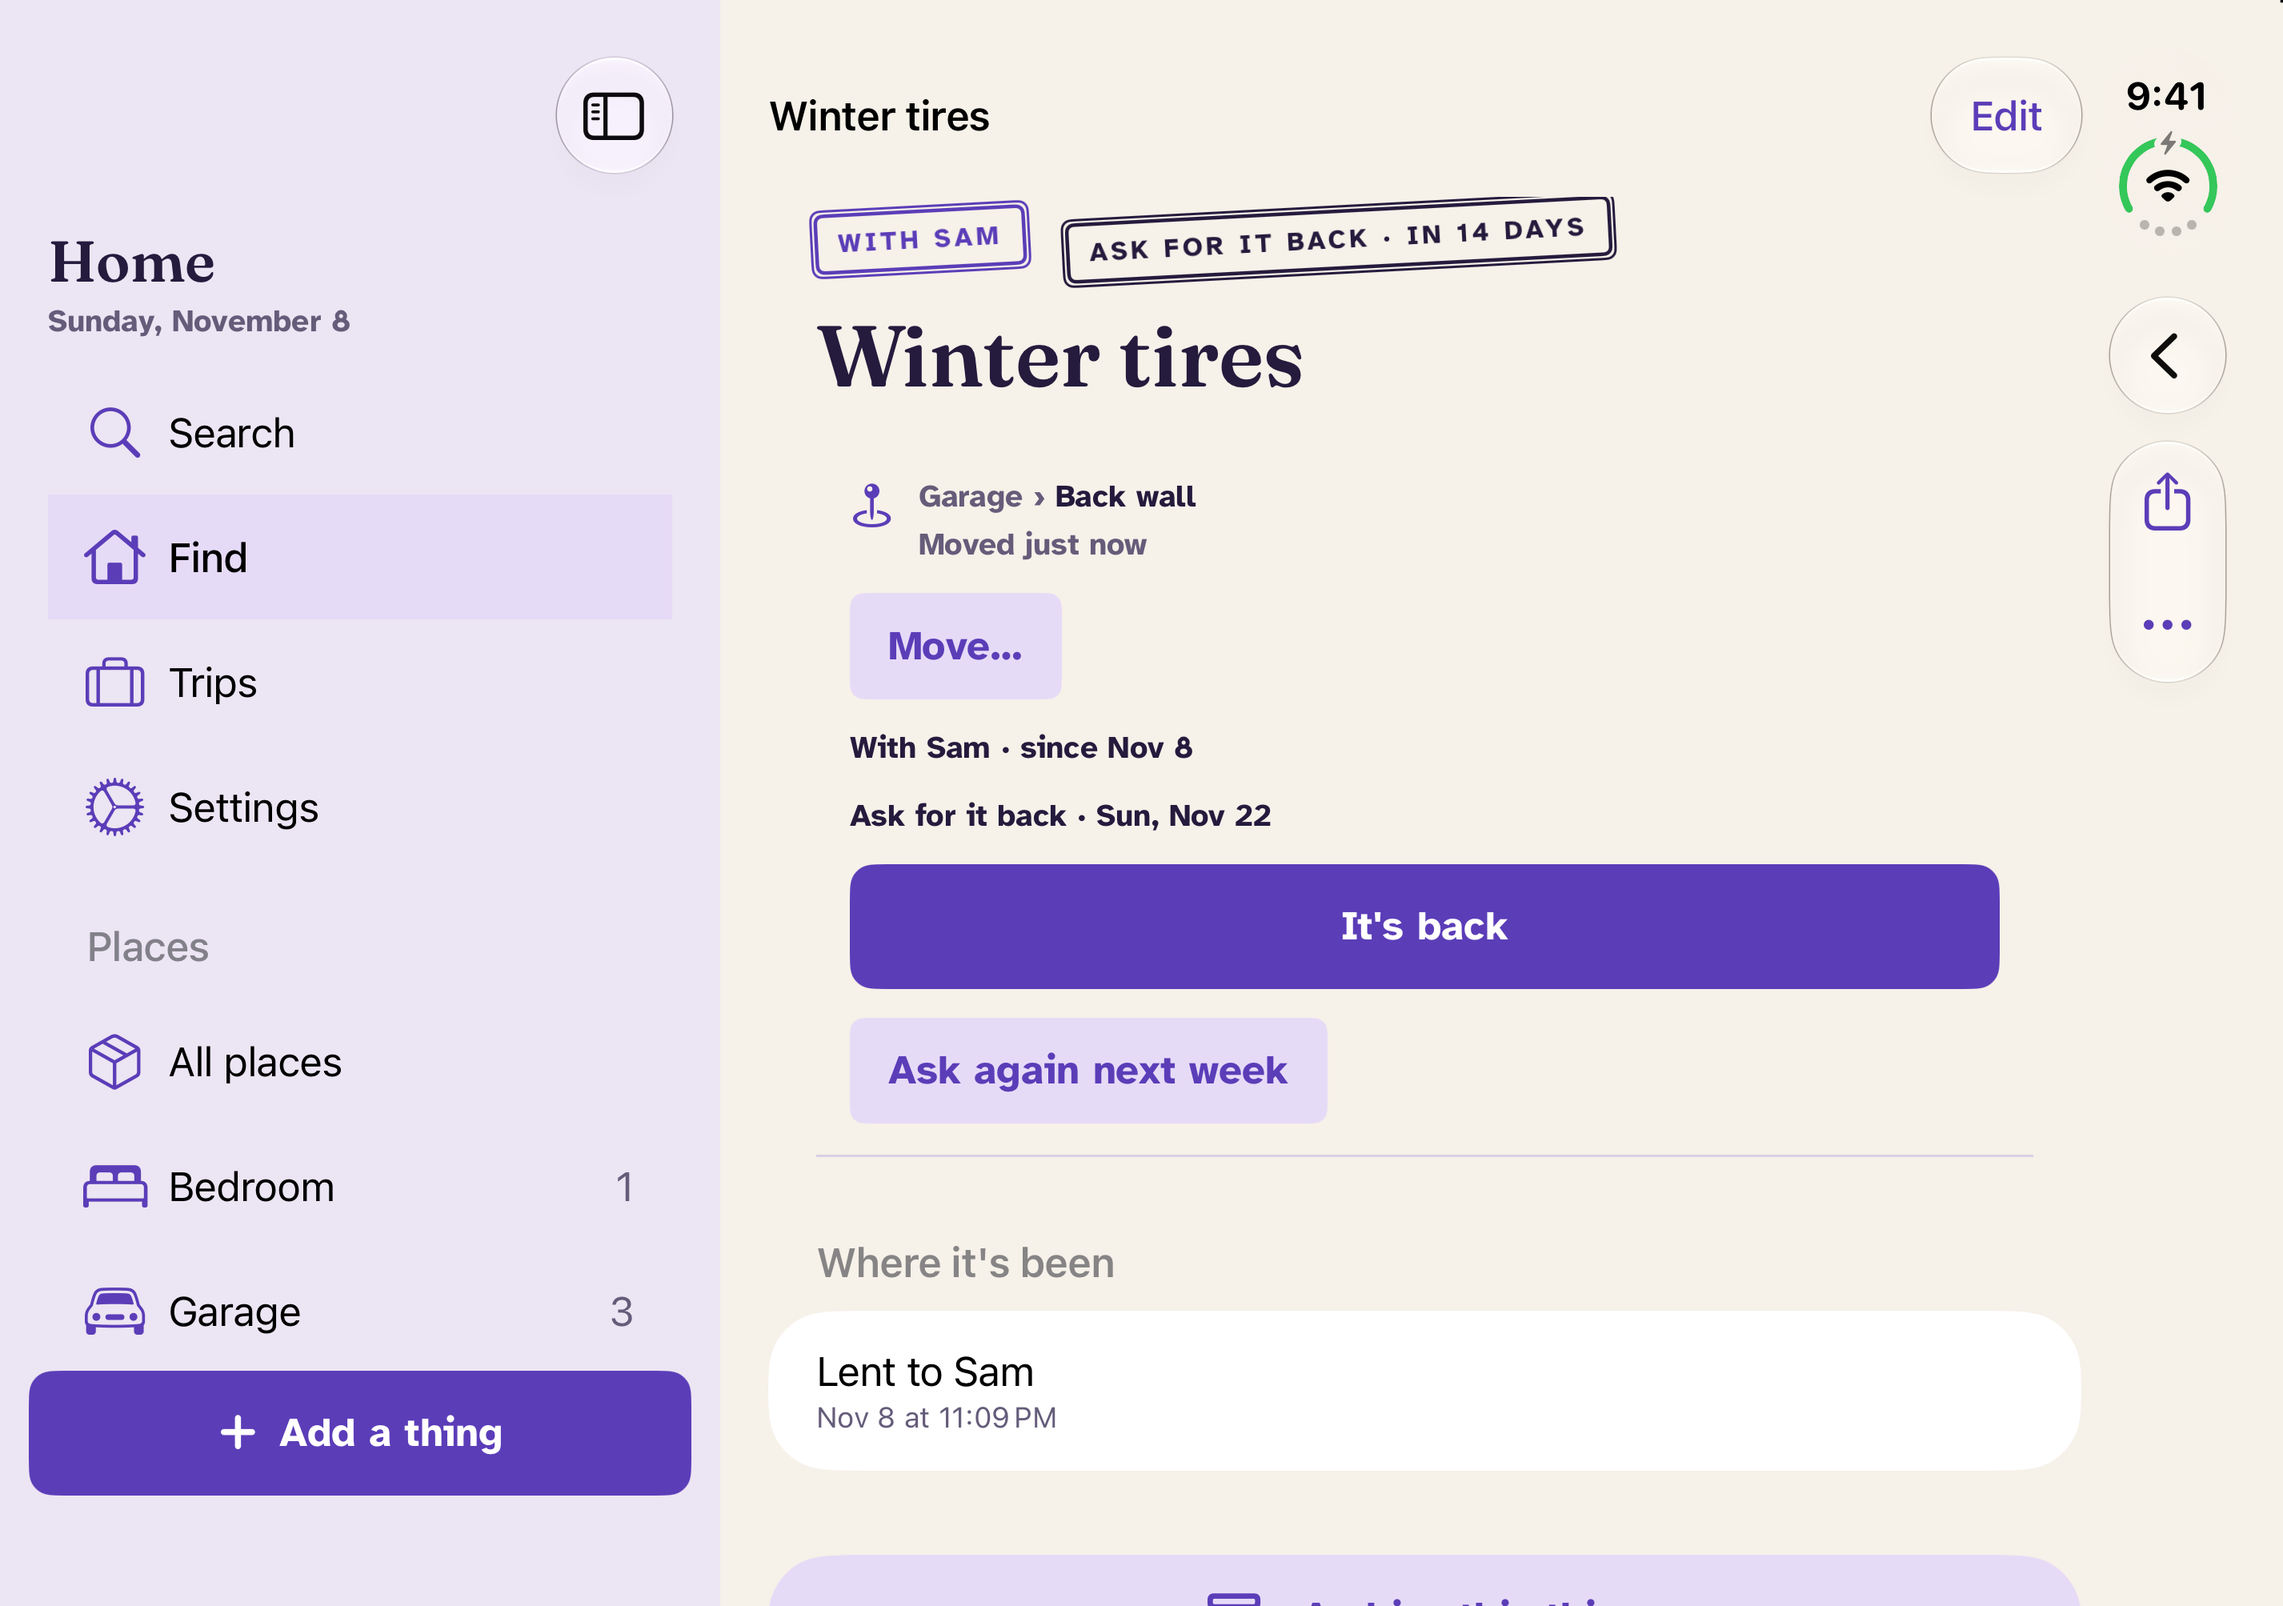
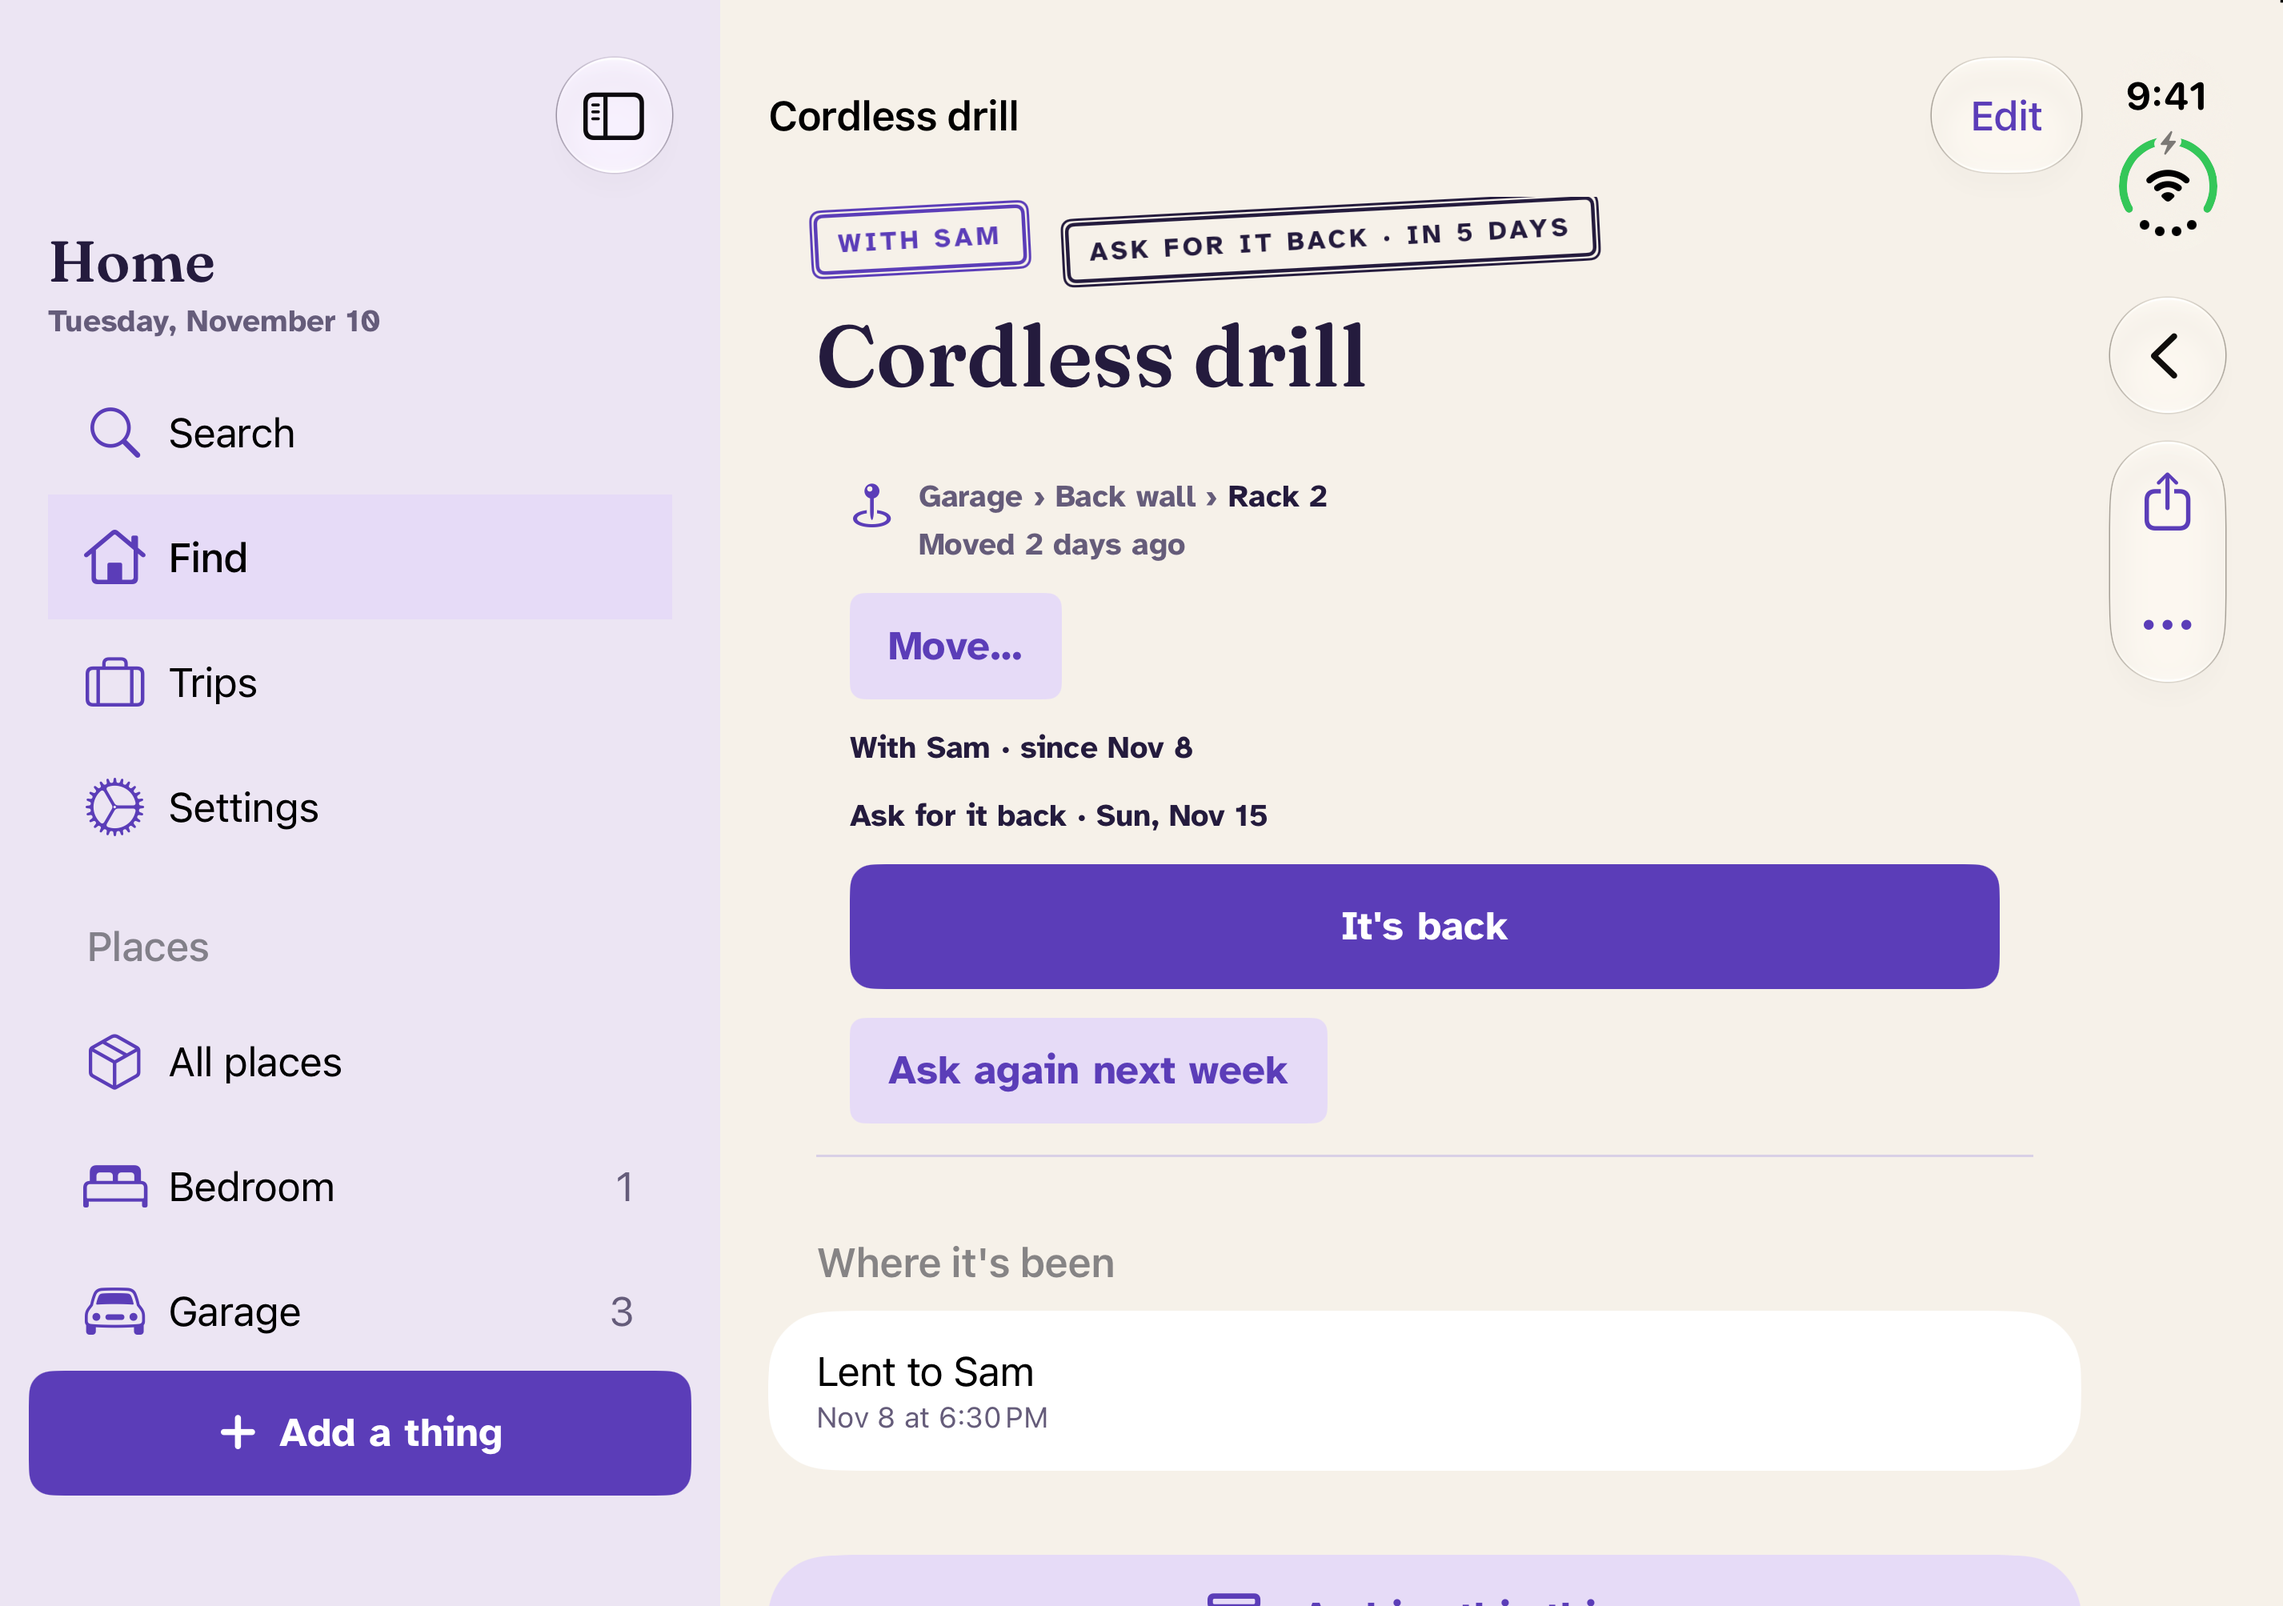
Store: Duo set retaken; the README says why shot 5 changed (O37)
Taken 10 November on the stock iPhone Duo simulator, unfolded, iOS 27.2, and redrawn without an
alpha channel as before.

diff --git a/Docs/Store/README.md b/Docs/Store/README.md
@@ -1,6 +1,8 @@
 # Store screenshots
 
-The iPhone set was taken 7 November 2026 on the iPhone 17 Pro Max simulator (6.9-inch, 1320 × 2868), iOS 27, light mode, default text size, status bar at 9:41. `5-pro.png` was retaken on 8 November for the "Share Pro with your family" row. The iPad set (`iPad-13/`, 2064 × 2752, upright) was taken on 8 November on the iPad Pro 13-inch (M5) simulator, iOS 27, the same way. They come from the Debug-only demo library, so no real names or documents appear. The Pro shots show the plans loaded from the local StoreKit file.
+The iPhone set was taken 7 November 2026 on the iPhone 17 Pro Max simulator (6.9-inch, 1320 × 2868), iOS 27, light mode, default text size, status bar at 9:41. The iPad set (`iPad-13/`, 2064 × 2752, upright) was taken on 8 November on the iPad Pro 13-inch (M5) simulator, iOS 27, the same way. They come from the Debug-only demo library, so no real names or documents appear.
+
+Retaken 10 November (owner, O37): shot 5 is now a room with a box inside (`5-places.png`) instead of the Pro screen, because the English (U.S.) shots stand in for every country and the Pro screen showed US prices. The lending shot now shows the demo's drill, lent two evenings ago, so its history line no longer reads later than the 9:41 status bar. The Pro screen, with the plans from the local StoreKit file, is kept as `Review/pro.png` for the products' review screenshots (O22). All five shots in each set were retaken together, so each set comes from one run. The iPhone set was retaken on the iPhone 18 Pro Max simulator (also 1320 × 2868), because the 17 Pro Max simulator is no longer installed; the iPad set on the iPad Pro 13-inch (M5) and the Duo set on the stock iPhone Duo, all iOS 27.2.
 
 Retake them with the simulator booted and its status bar and appearance set:
 
@@ -10,7 +12,7 @@ xcrun simctl ui <device> appearance light
 TEST_RUNNER_STORE_SHOTS=/private/tmp/hb-store xcodebuild -project Localiser.xcodeproj -scheme Localiser -testPlan Localiser -destination 'platform=iOS Simulator,id=<device>' -only-testing:LocaliserUITests/LocaliserUITests/testStoreScreenshots test
 ```
 
-The test also writes `review-*` design-review shots to the same folder. They are not for the store.
+The test also writes `review-*` design-review shots to the same folder. They are not for the store, except `review-pro.png`, which becomes `Review/pro.png`.
 
 The iPad and Duo shots come from a separate test, in portrait. `STORE_SHOTS` is the folder, and the test writes the five files straight into it:
 
@@ -25,13 +27,13 @@ TEST_RUNNER_STORE_SHOTS=/private/tmp/hb-store-ipad xcodebuild -project Localiser
 | `iPhone-6.9/2-voice.png` | Say where it is. Check it. Save it. |
 | `iPhone-6.9/3-lending.png` | Know who to ask for it back |
 | `iPhone-6.9/4-trip.png` | Reuse your packing list |
-| `iPhone-6.9/5-pro.png` | No account. Always yours to export |
-| `iPad-13/1-find.png` to `iPad-13/5-pro.png` | The same five screens, with the sidebar, on the 13-inch iPad |
-| `Duo/1-find.png` to `Duo/5-pro.png` | The same five screens on the Duo's inner screen, for App Store Connect's iPhone Duo slot |
+| `iPhone-6.9/5-places.png` | Every room, shelf and box |
+| `iPad-13/1-find.png` to `iPad-13/5-places.png` | The same five screens, with the sidebar, on the 13-inch iPad |
+| `Duo/1-find.png` to `Duo/5-places.png` | The same five screens on the Duo's inner screen, for App Store Connect's iPhone Duo slot |
 
 Notes:
 - **Voice memo:** `2-voice.png` is the only shot that shows voice memos. If they are cut, delete that file and upload four.
-- **Duo:** a UI test's own screenshot of the Duo comes back black, so the Duo set (2853 × 2007, landscape, unfolded) is taken with `xcrun simctl io <duo> screenshot --display=3`. Put an empty file called `external` in the `STORE_SHOTS` folder: the test then writes `<name>.ready` at each screen and waits up to a minute for `<name>.done`, and a script takes the screenshot in between. The order is 2-voice, 3-lending, 1-find, 4-trip, 5-pro. `simctl` saves the capture with an alpha channel, which App Store Connect can refuse, so the files here are redrawn onto an opaque canvas (every pixel was already opaque, so nothing changes visually).
+- **Duo:** a UI test's own screenshot of the Duo comes back black, so the Duo set (2853 × 2007, landscape, unfolded) is taken with `xcrun simctl io <duo> screenshot --display=3`. Put an empty file called `external` in the `STORE_SHOTS` folder: the test then writes `<name>.ready` at each screen and waits up to a minute for `<name>.done`, and a script takes the screenshot in between. The order is 2-voice, 3-lending, 1-find, 4-trip, 5-places. `simctl` saves the capture with an alpha channel, which App Store Connect can refuse, so the files here are redrawn onto an opaque canvas (every pixel was already opaque, so nothing changes visually).
 - **Reminders:** the test turns reminders on before the first shot, so Settings carries no warning badge. On a simulator where notifications were already denied, run `xcrun simctl uninstall <device> dev.hereabouts.app` first.
 - **Sizes:** the 6.9-inch set goes in the "iPhone with Dynamic Island (large display)" slot. App Store Connect lists the 6.1/6.3-inch iPhone (1206 × 2622) as the required size, and fills it from the 6.9-inch set ("Using Existing Assets"), so one iPhone set covers every iPhone. The app runs on iPad, so the 13-inch iPad set (2064 × 2752) is required too, and App Store Connect scales it down for smaller iPads. App Store Connect also has an iPhone Duo slot, which takes 2853 × 2007 (landscape) or 2007 × 2853.
 
